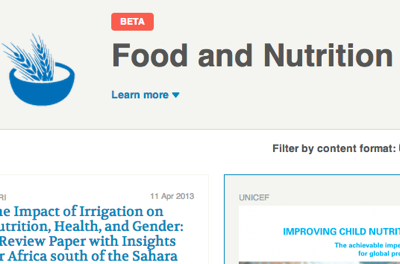
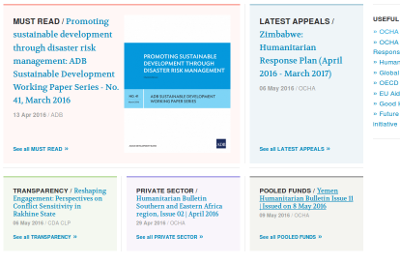
update topics card

diff --git a/_projects/2013-10-20-rw_topics.html b/_projects/2013-10-20-rw_topics.html
@@ -1,12 +1,12 @@
 ---
 layout: project
 id: rw-project-topics
-title: Thematic Topics
-link: http://reliefweb.int/topics/food-and-nutrition
+title: Topics
+link: http://reliefweb.int/topics
 phase: Released
 origin: RW Ideas
 image: img/rw-thumbnail-topic.png
 weight: 20
 ---
 
-To help you stay informed in your area of humanitarian expertise we have introduced a category of content pages called “Topics”. These thematic topics will categorise information under a particular issue or theme. “Food and Nutrition” is our first Labs trial topic page.
+Originally introduced in 2013, and refined and improved in 2016, the Topics section categorises reports and other useful information to help keep you up-to-date in your area of humanitarian expertise.
